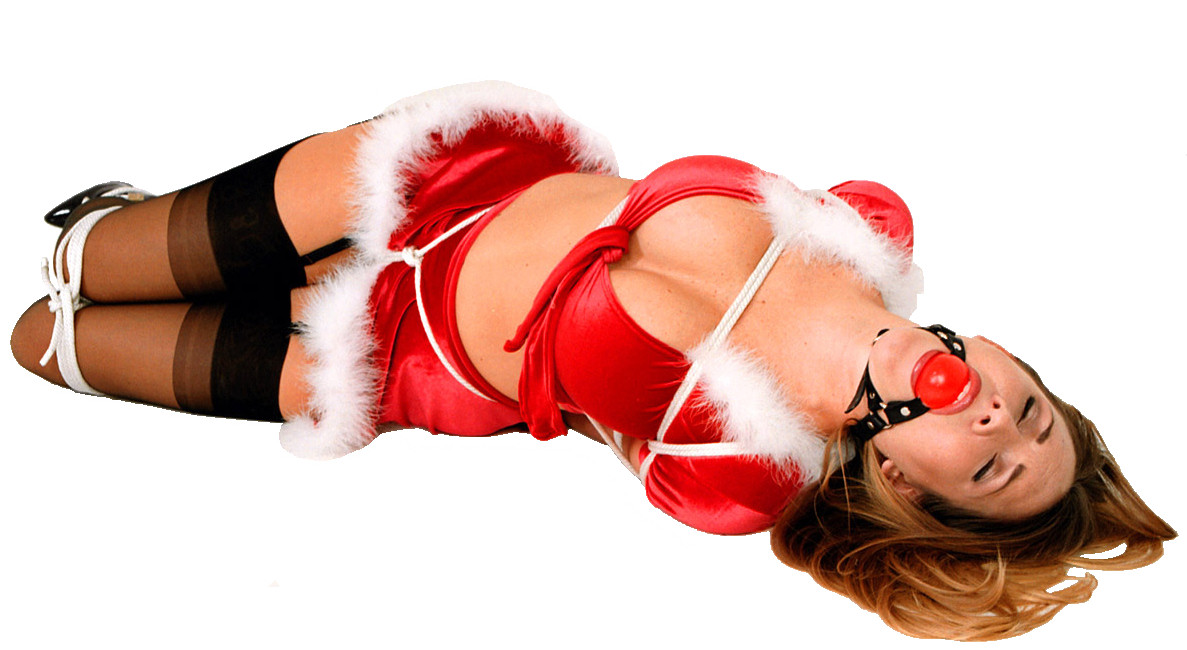
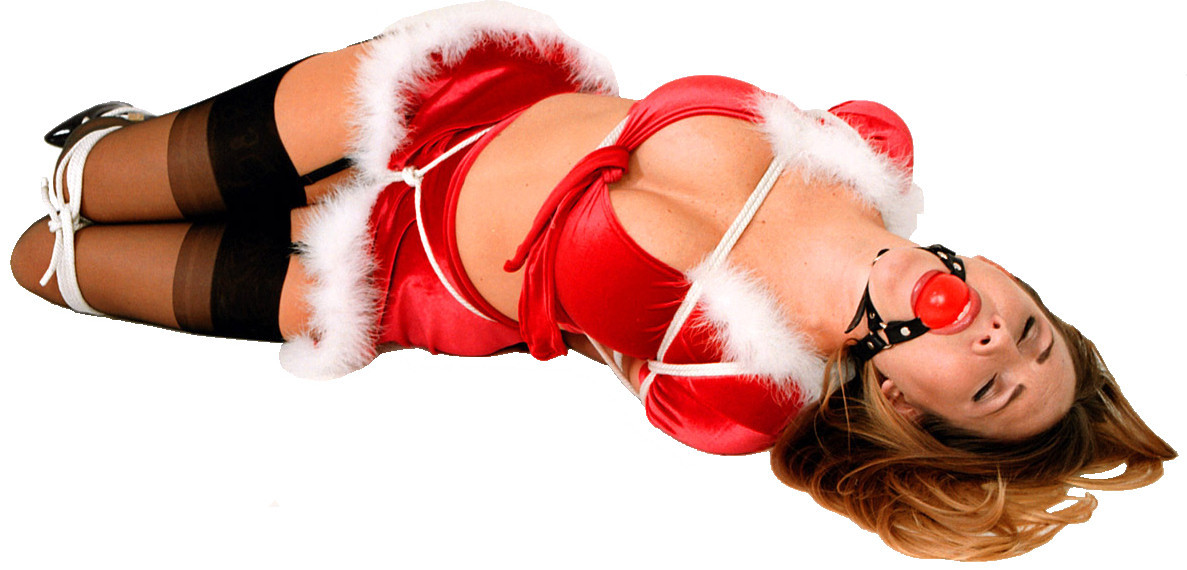
Bondage Poker - Altenative Images
Bondage Poker - Altenative Images

diff --git a/BondageClub/Screens/Room/Poker/Poker.js b/BondageClub/Screens/Room/Poker/Poker.js
@@ -210,7 +210,41 @@ function PokerGetImage(P) {
 
 	// For set images, a single opponent can have a large image, else we find a valid image from the game progress
 	if (P.Type == "Set") {
+		
+		// First try to get an alternate version of the image
 		let Images = [];
+		if ((P.Alternate == null) && (P.Data != null) && (P.Data.cache["Alternate"] != null))
+			P.Alternate = Math.floor(Math.random() * parseInt(P.Data.cache["Alternate"])) + 1;
+		if (P.Alternate != null) {
+			if (PokerPlayerCount == 2) {
+				let X = 0;
+				while (P.Data.cache[X] != null) {
+					if (P.Data.cache[X].substr(8, 19) == "OpponentLarge-Alt" + P.Alternate.toString() + "=") {
+						let From = P.Data.cache[X].substr(0, 3);
+						let To = P.Data.cache[X].substr(4, 3);
+						if (!isNaN(parseInt(From)) && !isNaN(parseInt(To)))
+							if ((Progress >= parseInt(From)) && (Progress <= parseInt(To)))
+								Images.push(P.Data.cache[X].substr(27, 100));
+					}
+					X++;
+				}
+			}
+			if (Images.length == 0) {
+				let X = 0;
+				while (P.Data.cache[X] != null) {
+					if (P.Data.cache[X].substr(8, 14) == "Opponent-Alt" + P.Alternate.toString() + "=") {
+						let From = P.Data.cache[X].substr(0, 3);
+						let To = P.Data.cache[X].substr(4, 3);
+						if (!isNaN(parseInt(From)) && !isNaN(parseInt(To)))
+							if ((Progress >= parseInt(From)) && (Progress <= parseInt(To)))
+								Images.push(P.Data.cache[X].substr(22, 100));
+					}
+					X++;
+				}
+			}
+		}
+
+		// Sets the non alternative images
 		if (PokerPlayerCount == 2) {
 			let X = 0;
 			while (P.Data.cache[X] != null) {
@@ -237,8 +271,11 @@ function PokerGetImage(P) {
 				X++;
 			}
 		}
+
+		// If an image was found
 		if (Images.length > 0)
 			P.Image = "Screens/Room/Poker/" + CommonRandomItemFromList("", Images);
+
 	}
 
 }
@@ -345,6 +382,7 @@ function PokerClearData(P) {
 	P.TextSingle = null;
 	P.TextMultiple = null;
 	P.WebLink = null;
+	P.Alternate = null;
 }
 
 /**
